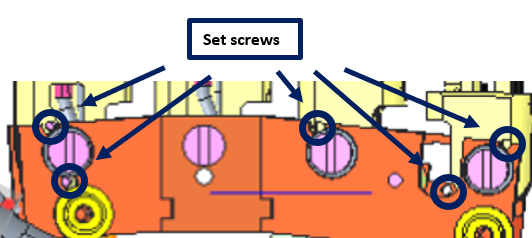
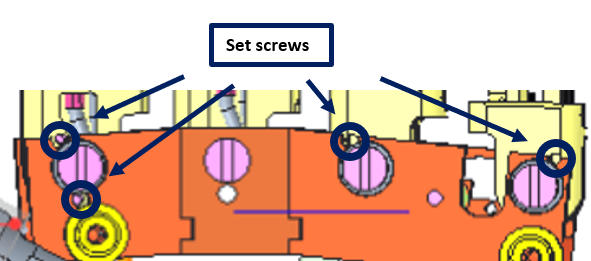
end of fingers abduction instructions

Changed region(s): [[0.0, 0.2647, 1.0, 1.0], [0.3308, 0.0588, 0.5714, 0.2647], [0.6917, 0.7941, 0.7218, 0.8235]]

diff --git a/mkdocs/tendons_icub/docs/wrist_hand_cabling_V2.md b/mkdocs/tendons_icub/docs/wrist_hand_cabling_V2.md
@@ -137,27 +137,27 @@ PREFACE: This cable is THE most complicated to replace - rewire, mainly because 
 
 | Pictures                                                     | step by step guide                                           |
 | ------------------------------------------------------------ | ------------------------------------------------------------ |
-| <img src="../img/HAND_WRIST_V2/remove-dorso.png" width = 110%><br/> | <u>STEP 1:</u><br/>remove the screw M2x6 holding the dorsum cover and turn upside down the cover from the external part. The dorsum cover should get removed. |
-| <img src="../img/HAND_WRIST_V2/L_Hand_w_palm.png" width = 110%><br/> | <u>STEP 2:</u></br>The only way to start correctly this wiring is to remove the palm.<br/>Please remove the 3 screws M2x6 inside the palm (circled in red) and the 2 screws M2x4 (circled in blue) at base of the wrist<br/> |
-| <img src="../img/HAND_WRIST_V2/set-screws-f-abd.png" width = 110%><br/><img src="../img/HAND_WRIST_V2/zoom-set-screws-f-abd.png" width = 110%> | <u>STEP 3:</u><br/>remove the overall set screws<br/>use a 0.7mm hexagonal - screwdriver or key. |
+| <img src="/img/HAND_WRIST_V2/remove-dorso.png" width = 110%><br/> | <u>STEP 1:</u><br/>remove the screw M2x6 holding the dorsum cover and turn upside down the cover from the external part. The dorsum cover should get removed. |
+| <img src="/img/HAND_WRIST_V2/L_Hand_w_palm.png" width = 110%><br/> | <u>STEP 2:</u></br>The only way to start correctly this wiring is to remove the palm.<br/>Please remove the 3 screws M2x6 inside the palm (circled in red) and the 2 screws M2x4 (circled in blue) at base of the wrist<br/> |
+| <img src="/img/HAND_WRIST_V2/set-screws-f-abd.png" width = 110%><br/><img src="/img/HAND_WRIST_V2/zoom-set-screws-f-abd.png" width = 110%> | <u>STEP 3:</u><br/>remove the overall set screws<br/>use a 0.7mm hexagonal - screwdriver or key. |
 |                                                              | <u>STEP 4:</u><br/>remove the overall remaining piece of the broken cable before starting to restore it.<br/>Inspect in side the cage - remove the 2 screw M1.6x5<br/>Let's get to business and Let's  start wiring! |
-| <img src="../img/HAND_WRIST_V2/L-f-abd-wiring.png" width = 110%><br/><img src="../img/HAND_WRIST_V2/L-f-abd-wiring1.png" width = 110%> | <u>STEP 5:</u><br/>start wiring<br/>2 Full Turns (blue) CCW around the pulley and gets out <br/>into tube T2<br/>1 Full Turn (red) CW around the pulley and gets out into tube T0 |
+| <img src="/img/HAND_WRIST_V2/L-f-abd-wiring.png" width = 110%><br/><img src="/img/HAND_WRIST_V2/L-f-abd-wiring1.png" width = 110%> | <u>STEP 5:</u><br/>start wiring<br/>2 Full Turns (blue) CCW around the pulley and gets out <br/>into tube T2<br/>1 Full Turn (red) CW around the pulley and gets out into tube T0 |
 |                                                              | !!!TIP!!! it could be a good idea to block the wiring around the pulley thx to some foam earplug or some paper |
-| <img src="../img/HAND_WRIST_V2/L_hand_f_abd_new.png" width = 110%> | Here is a picture of the overall path of the cable inside the 3 tubes constituting the path of the cable. |
-| <img src="../img/HAND_WRIST_V2/Unmount-board1.png" width = 110%> | <u>STEP 6:</u><br/>remove every single board above the knuckle |
+| <img src="/img/HAND_WRIST_V2/L_hand_f_abd_new.png" width = 110%> | Here is a picture of the overall path of the cable inside the 3 tubes constituting the path of the cable. |
+| <img src="/img/HAND_WRIST_V2/Unmount-board1.png" width = 110%> | <u>STEP 6:</u><br/>remove every single board above the knuckle |
 | <img src="../img/HAND_WRIST_V2/Unmount-board2.png" width = 110%> | <u>STEP 6a:</u><br/>remove the screw and flip over the board with the little chipsets . |
 | <img src="../img/HAND_WRIST_V2/Unmount-board3.png" width = 110%><br/><img src="../img/HAND_WRIST_V2/Unmount-board4.png" width = 110%> | <u>STEP 6b:</u><br/>1. Unplug every single chipset from the main board.<br/>!!!TIP: Please write down with a marker the initial of the finger chipset you unplug - it sometimes messy when remounting everything to find out which chipset is for which finger<br/>2. remove the power connector<br/>3. remove the 3 screws (2 M1x5 and 1 M1.6x6)<br />4. With caution please remove the MAIS Board - on the bottom side of the board there is an inductor that sometimes got broken when remove carelessly. |
 | <img src="../img/HAND_WRIST_V2/Unmount-board5.png" width = 110%> | <u>STEP 6c:</u><br/>1. remove the 2 screws M1.6x6<br/>       |
 |                                                              | Let's start with wiring cable from T2                        |
-| <img src="../img/HAND_WRIST_V2/L-f-abd-wiring2.png" width = 110%><br/> | <u>STEP 7:</u><br/>Here is the picture of the routing of the cable you need to realize<br/>To do that it is necessary to allow the pulleys to spine around their pin |
-| <img src="../img/HAND_WRIST_V2/R_P_pins.png" width = 110%>   | <u>STEP 7a:</u><br/>**PINKIE FINGER**<br/>1. we need to untighten the axe screws (NOT REMOVED) <br/>on both side until the pulley move sideways <br/>accordingly with the motion of the finger you should be able to insert the cable into it.<br/>2. Put back on the axe screws and retighten them |
-|                                                              | <u>STEP 7b:</u><br/>**RING FINGER**<br/>Same as the Pinkie finger.<br/>Finally insert the cable into the hole leading to T4 |
-|                                                              | <u>STEP 8:</u>reput back on the screws holding fingers       |
-|                                                              | <u>STEP 1:</u>T between anulare e indice                     |
-|                                                              | <u>STEP 1:</u>start to insert the set screws just in order to block the fingers |
-|                                                              | <u>STEP 1:</u>close 1 set screw from the indice and use plier to pull wire and close 2nd set screw of index |
-|                                                              | close every single                                           |
-|                                                              | <u>STEP 6:</u><br/>Let's start to wire the simplest part of the cable (red)push the cable until it reach the internal part of the Index base T verso indice + giro |
-| <img src="../img/HAND_WRIST_V2/L_hand_f_abd_new.png" width = 110%> |                                                              |
-|                                                              |                                                              |
+| <img src="/img/HAND_WRIST_V2/L-f-abd-wiring2.png" width = 110%><br/> | <u>STEP 7:</u><br/>Here is the picture of the routing of the cable you need to realize<br/>To do that, it is necessary to allow the pulleys to spine around their pin |
+| <img src="/img/HAND_WRIST_V2/R_P_pins.png" width = 110%><br/><img src="/img/HAND_WRIST_V2/P_R_axes_screws.png" width = 110%> | <u>STEP 7a:</u><br/>**PINKIE FINGER**<br/>1. you need to untighten ENTIRELY the axe' screws <br/>on both side of the finger (on palm side it can be removed<br/> - pay attention the ball bearing may fall as well, <br/> just remember to replace it when remounting - <br/> BUT REFRAIN TO REMOVE on top side <br/>- or else you will lose the center of the finger <br/>2. try to move the pulley along its pin until you succeed<br/> to insert the cable into it.<br/>3. Put back on the axe screws and retighten them |
+|                                                              | <u>STEP 7b:</u><br/>**RING FINGER**<br/>Same 3 first steps as the Pinkie finger.<br/>4. Finally insert the cable into the hole leading to T4 |
+| <img src="/img/HAND_WRIST_V2/P_set_screw.png" width = 110%>  | <u>STEP 8: <br/>before starting to wire the base of the index finger<br/>it is really important to block the cable <br/>at the base of the pinkie finger - in this way  we wont unintentionally untwine the wiring<br/> at the level of the motor pulley.<br/>1. Insert the set-screw onto the pinkie finger. |
+|                                                              | Let's start wiring the indie base pulley                     |
+| <img src="/img/HAND_WRIST_V2/Th_exit1.png" width = 110%>     | <u>STEP 9:</u><br/>As for pinkie and ring fingers: <br/>1. untighten the 2 axes screws in order to be able to move the pinky(color) pulley sideway around its **PIN**<br/>2. start by passing the cable coming from T4(red) |
+| <img src="/img/HAND_WRIST_V2/Th_exit2.png" width = 110%>     | <u>STEP 10:</u><br/>1. wire the cable from T0 (blue)<br/>2. recenter the pinky pulley and put the axes screw back on . |
+|                                                              | Let's start tensing the cable                                |
+| <img src="/img/HAND_WRIST_V2/P_set_screw2.png" width = 110%> | <u>STEP 11:</u><br/>1. take a tweezer  - pinch at the exit of the cable from the pinky pulley and twist to retrieve the excess and tense this part of the cable - the overall fingers should get closer to each other<br/>2. put the set-screw A and B<br/>3. Tense the other side of the cable (blue part) the same way<br/>4. put the set-screw C |
+| <img src="/img/HAND_WRIST_V2/check.png" width = 110%>        | <u>STEP 12:</u><br/>Final test<br/>1. remove the 2 blocks (foam ear plug or paper jamming) from the pulley motor<br/>2. use the head screw from the pulley motor to check if the fingers get opened-closed whenever you turn it CW or CCW. |
+|                                                              | IF YES -YOU ARE DONE - USE every unmounting step to put back in place every part of the hand |
 
